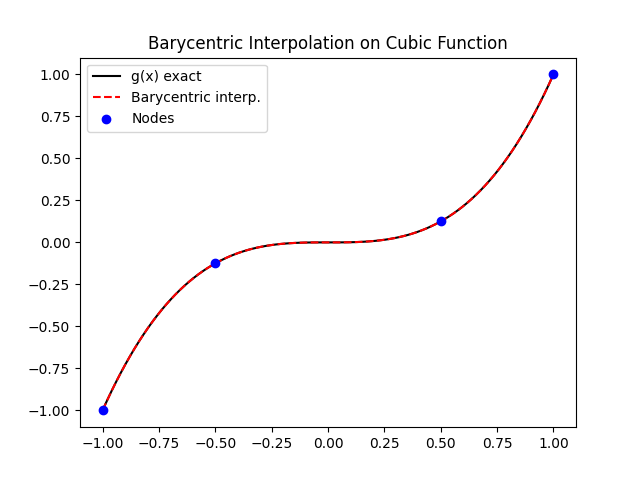
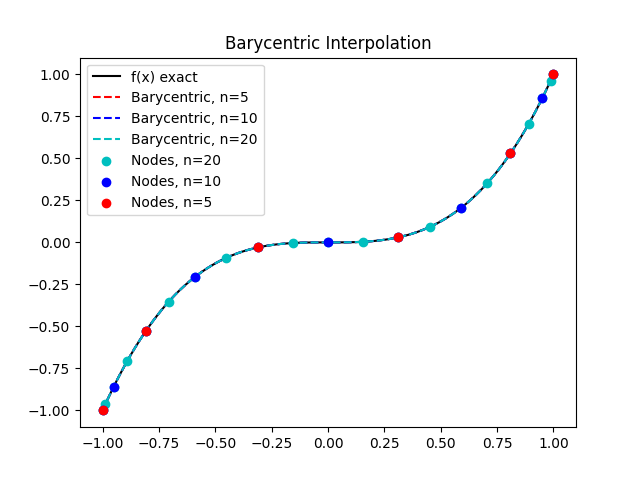
commit

diff --git a/project6/main.py b/project6/main.py
@@ -342,31 +342,67 @@ def cubic_b_spline_interpolation(x_nodes, f, fprime):
 # -----------------------------
 # Test 1: Barycentric Interpolation on a Cubic Polynomial
 # -----------------------------
-def g_cubic(x):
-    return np.sin(x)
+# def f(x):
+#     return 1 / (1 + (10 * x ** 2))
+#
+# def fprime(x):
+#     return - (20 * x) / ((1 + (10 * x ** 2)) ** 2)
+#
+# def fprime2(x):
+#     return - (20 * (1 - 30 * x ** 2)) / ((1 + (10 * x ** 2)) ** 3)
 
-def g_quadratic(x):
-    return np.cos(x)
+# def f(x):
+#     return np.sin(x)
+#
+# def fprime(x):
+#     return np.cos(x)
+#
+# def fprime2(x):
+#     return - np.sin(x)
 
-def g_linear(x):
-    return -1 * np.sin(x)
+def f(x):
+    return x ** 3
 
-a, b = -  np.pi / 2, np.pi / 2
-n = 3
-nodes = chebyshev_nodes(n, a, b, kind=2)
-weights = barycentric_weights(nodes)
-y_nodes = g_cubic(nodes)
+def fprime(x):
+    return 3 * x ** 2
 
+def fprime2(x):
+    return 6 * x
+
+a, b = - 1, 1
+# n0 = 5
+# n1 = 10
+# n2 = 20
+# nodes = chebyshev_nodes(n0, a, b, kind=2)
+# nodes1 = chebyshev_nodes(n1, a, b, kind=2)
+# nodes2 = chebyshev_nodes(n2, a, b, kind=2)
+# weights = barycentric_weights(nodes)
+# weights1 = barycentric_weights(nodes1)
+# weights2 = barycentric_weights(nodes2)
+# y_nodes = f(nodes)
+# y_nodes1 = f(nodes1)
+# y_nodes2 = f(nodes2)
+#
 x_dense = np.linspace(a, b, 100)
 # p_bary = barycentric_interpolation(x_dense, nodes, weights, y_nodes)
-# error_bary = np.max(np.abs(g_cubic(x_dense) - p_bary))
+# p_bary1 = barycentric_interpolation(x_dense, nodes1, weights1, y_nodes1)
+# p_bary2 = barycentric_interpolation(x_dense, nodes2, weights2, y_nodes2)
+# error_bary = round(np.max(np.abs(f(x_dense) - p_bary)),8)
+# error_bary1 = round(np.max(np.abs(f(x_dense) - p_bary1)),8)
+# error_bary2 = round(np.max(np.abs(f(x_dense) - p_bary2)),8)
 # print("Test 1: Barycentric Interpolation max error (cubic):", error_bary)
+# print("Test 2: Barycentric Interpolation max error (cubic):", error_bary1)
+# print("Test 3: Barycentric Interpolation max error (cubic):", error_bary2)
 #
 # plt.figure()
-# plt.plot(x_dense, g_cubic(x_dense), 'k-', label="g(x) exact")
-# plt.plot(x_dense, p_bary, 'r--', label="Barycentric interp.")
-# plt.scatter(nodes, y_nodes, c='blue', zorder=5, label="Nodes")
-# plt.title("Barycentric Interpolation on Cubic Function")
+# plt.plot(x_dense, f(x_dense), 'k-', label="f(x) exact")
+# plt.plot(x_dense, p_bary, 'r--', label="Barycentric, n=5")
+# plt.plot(x_dense, p_bary1, 'b--', label="Barycentric, n=10")
+# plt.plot(x_dense, p_bary2, 'c--', label="Barycentric, n=20")
+# plt.scatter(nodes2, y_nodes2, c='c', zorder=5, label="Nodes, n=20")
+# plt.scatter(nodes1, y_nodes1, c='b', zorder=5, label="Nodes, n=10")
+# plt.scatter(nodes, y_nodes, c='r', zorder=5, label="Nodes, n=5")
+# plt.title("Barycentric Interpolation")
 # plt.legend()
 # plt.savefig("barycentric_interpolation1.png")
 # plt.show()
@@ -374,121 +410,102 @@ x_dense = np.linspace(a, b, 100)
 # -----------------------------
 # Test 2: Piecewise Polynomial Interpolation on a Cubic Function
 # -----------------------------
-num_sub = 10
-p_piecewise = piecewise_polynomial(g_cubic, a, b, num_sub, x_dense, degree=3, local_method=2)
-error_piecewise = np.max(np.abs(g_cubic(x_dense) - p_piecewise))
-print("Test 2: Piecewise Polynomial Interpolation max error (cubic):", error_piecewise)
-
-plt.figure()
-plt.plot(x_dense, g_cubic(x_dense), 'k-', label="g(x) exact")
-plt.plot(x_dense, p_piecewise, 'g--', label="Piecewise poly interp.")
-plt.title("Piecewise Polynomial Interpolation on Cubic Function")
-plt.legend()
-plt.savefig("piecewise1_pi_10.png")
-plt.show()
+# num_sub = 20
+# p_piecewise = piecewise_polynomial(f, a, b, num_sub, x_dense, degree=3, local_method=2)
+# error_piecewise = round(np.max(np.abs(f(x_dense) - p_piecewise)),8)
+# print("Test 2: Piecewise Polynomial Interpolation max error (cubic):", error_piecewise)
 #
-# # -----------------------------
-# # Test 3: Piecewise Hermite Polynomial Interpolation on a Cubic Function
-# # -----------------------------
-p_piecewise2 = piecewise_polynomial(g_cubic, a, b, num_sub, x_dense, degree=3, local_method=2,
-                                    hermite=True, fprime=g_quadratic)
-error_piecewise2 = np.max(np.abs(g_cubic(x_dense) - p_piecewise2))
-print("Test 3: Piecewise Hermite Polynomial Interpolation max error (cubic):", error_piecewise2)
-
-plt.figure()
-plt.plot(x_dense, g_cubic(x_dense), 'k-', label="g(x) exact")
-plt.plot(x_dense, p_piecewise2, 'g--', label="Piecewise poly interp.")
-plt.title("Piecewise Hermite Polynomial Interpolation on Cubic Function")
-plt.legend()
-plt.savefig("piecewise1_hermite_pi_10.png")
-plt.show()
+# plt.figure()
+# plt.plot(x_dense, f(x_dense), 'k-', label="f(x) exact")
+# plt.plot(x_dense, p_piecewise, 'g--', label="Piecewise poly interp.")
+# plt.title("Piecewise Polynomial Interpolation")
+# plt.legend()
+# plt.savefig("piecewise_10_20.png")
+# plt.show()
+#
+# # # -----------------------------
+# # # Test 3: Piecewise Hermite Polynomial Interpolation on a Cubic Function
+# # # -----------------------------
+# p_piecewise2 = piecewise_polynomial(f, a, b, num_sub, x_dense, degree=3, local_method=2,
+#                                     hermite=True, fprime=fprime)
+# error_piecewise2 = round(np.max(np.abs(f(x_dense) - p_piecewise2)),8)
+# print("Test 3: Piecewise Hermite Polynomial Interpolation max error (cubic):", error_piecewise2)
+#
+# plt.figure()
+# plt.plot(x_dense, f(x_dense), 'k-', label="f(x) exact")
+# plt.plot(x_dense, p_piecewise2, 'g--', label="Piecewise poly interp.")
+# plt.title("Piecewise Hermite Polynomial Interpolation")
+# plt.legend()
+# plt.savefig("piecewise_hermite_10_20.png")
+# plt.show()
 #
 #
 # # -----------------------------
 # # Test 4: Cubic Spline Interpolation (Spline Code 1) on a Cubic Function
 # # -----------------------------
-# x_nodes = np.linspace(a, b, 4)
-# y_nodes = g_cubic(x_nodes)
-# _, coeffs = newton_divided_diff(x_nodes, y_nodes)
-# matrix, d = cubic_spline_coefficients(x_nodes, coeffs, g_linear)
-# s = np.linalg.solve(matrix, d)
-# spline1 = cubic_spline_polynomial(x_nodes, y_nodes, x_dense, s)
-# error_spline1 = np.max(np.abs(g_cubic(x_dense) - spline1))
-# print("Test 4: Cubic Spline max error:", error_spline1)
 #
-# plt.figure()
-# plt.plot(x_dense, g_cubic(x_dense), 'k-', label="g(x) exact")
-# plt.plot(x_dense, spline1, 'm--', label="Cubic Spline Code 1")
-# plt.title("Cubic Spline on Cubic Function")
-# plt.legend()
-# plt.savefig("cubic_spline_10.png")
-# plt.show()
+splines = []
+for n in (10, 50, 80):
+    x_nodes = np.linspace(a, b, n)
+    y_nodes = f(x_nodes)
+    _, coeffs = newton_divided_diff(x_nodes, y_nodes)
+    matrix, d = cubic_spline_coefficients(x_nodes, coeffs, fprime2)
+    s = np.linalg.solve(matrix, d)
+    spline1 = cubic_spline_polynomial(x_nodes, y_nodes, x_dense, s)
+    splines.append(spline1)
+    error_spline1 = round(np.max(np.abs(f(x_dense) - spline1)),8)
+    print(f"Test 4: Cubic Spline max error for n={n}:", error_spline1)
+
+plt.figure()
+plt.plot(x_dense, f(x_dense), 'k-', label="f(x) exact")
+plt.plot(x_dense, splines[0], 'c--', label="Cubic Spline n=10")
+plt.plot(x_dense, splines[1], 'b--', label="Cubic Spline n=50")
+plt.plot(x_dense, splines[2], 'r--', label="Cubic Spline n=80")
+plt.title("Cubic Spline Interpolation")
+plt.legend()
+plt.savefig("cubic_spline_1.png")
+plt.show()
 
 # # -----------------------------
 # # Test 5: Cubic Spline Interpolation (Spline Code 2) on a Cubic Function
 # # -----------------------------
 
-# num_nodes = 5
-# x_nodes = np.linspace(a, b, num_nodes)
-# y_nodes = g_cubic(x_nodes)
+splines1 = []
+for n in (10, 50, 80):
+    num_nodes = n
+    x_nodes = np.linspace(a, b, num_nodes)
+    y_nodes = f(x_nodes)
+
+    s_vals, alpha = cubic_b_spline_interpolation(x_nodes, f, fprime)
+    x_dense = np.linspace(a, b, 100)
+    s_dense = np.zeros_like(x_dense)
+    h = x_nodes[1] - x_nodes[0]
+    x0 = x_nodes[0]
+    N = len(alpha)  # = n+3
+    for idx, x in enumerate(x_dense):
+        s_val = 0.0
+        for j in range(N):
+            i_index = j - 1
+            s_val += alpha[j] * cubic_Bspline_coefficients(i_index, x, x0, h)
+        s_dense[idx] = s_val
+    splines1.append(s_dense)
+
+    error_spline2 = np.max(np.abs(f(x_dense) - s_dense))
+    print(f"Test 5: Cubic B-Spline max error for n={n}:", error_spline2)
 #
-# s_vals, alpha = cubic_b_spline_interpolation(x_nodes, g_cubic, g_quadratic)
-# x_dense = np.linspace(a, b, 100)
-# s_dense = np.zeros_like(x_dense)
-# h = x_nodes[1] - x_nodes[0]
-# x0 = x_nodes[0]
-# N = len(alpha)  # = n+3
-# for idx, x in enumerate(x_dense):
-#     s_val = 0.0
-#     for j in range(N):
-#         i_index = j - 1
-#         s_val += alpha[j] * cubic_Bspline_coefficients(i_index, x, x0, h)
-#     s_dense[idx] = s_val
 #
-# error_spline2 = np.max(np.abs(g_cubic(x_dense) - s_dense))
-# print("Test 5: Cubic B-Spline max error:", error_spline2)
-#
-#
-# plt.plot(x_dense, g_cubic(x_dense), 'k-', label="f(x) = x^3 (exact)")
-# plt.plot(x_dense, s_dense, 'r--', label="Cubic B-spline Interpolant")
-# plt.plot(x_nodes, y_nodes, 'bo', label="Nodes")
-# plt.title("Cubic B-spline Interpolation via B-spline Basis")
-# plt.xlabel("x")
-# plt.ylabel("y")
-# plt.legend()
-# plt.savefig("cubic_Bspline_1.png")
-# plt.show()
+plt.plot(x_dense, f(x_dense), 'k-', label="f(x) (exact)")
+plt.plot(x_dense, splines1[0], 'c--', label="Cubic B-spline n=10")
+plt.plot(x_dense, splines1[1], 'b--', label="Cubic B-spline n=50")
+plt.plot(x_dense, splines1[2], 'r--', label="Cubic B-spline n=80")
+plt.title("Cubic B-spline Interpolation via B-spline Basis")
+plt.xlabel("x")
+plt.ylabel("y")
+plt.legend()
+plt.savefig("cubic_Bspline_1.png")
+plt.show()
 
 
-# # -----------------------------
-# # Test 6: Comparison on a Non-Polynomial Function (e.g., sin(x))
-# # -----------------------------
-# def f_sin(x):
-#     return np.sin(x)
-
-# a_sin, b_sin = 0, np.pi
-# x_dense_sin = np.linspace(a_sin, b_sin, 200)
-# n_sin = 10  # number of nodes for barycentric
-# nodes_sin = chebyshev_nodes(n_sin, a_sin, b_sin, kind=1)
-# weights_sin = barycentric_weights(nodes_sin)
-# y_nodes_sin = f_sin(nodes_sin)
-# p_bary_sin = barycentric_interpolation(x_dense_sin, nodes_sin, weights_sin, y_nodes_sin)
-# p_piecewise_sin = piecewise_polynomial(f_sin, a_sin, b_sin, num_sub=4, x=x_dense_sin, degree=3, local_method=1)
-#
-# plt.figure()
-# plt.plot(x_dense_sin, f_sin(x_dense_sin), 'k-', label="sin(x) exact")
-# plt.plot(x_dense_sin, p_bary_sin, 'r--', label="Barycentric")
-# plt.plot(x_dense_sin, p_piecewise_sin, 'g--', label="Piecewise Poly")
-# plt.title("Comparison on sin(x)")
-# plt.legend()
-# plt.show()
-#
-# error_bary_sin = np.max(np.abs(f_sin(x_dense_sin) - p_bary_sin))
-# error_piecewise_sin = np.max(np.abs(f_sin(x_dense_sin) - p_piecewise_sin))
-# print("Test 5: sin(x) Barycentric max error:", error_bary_sin)
-# print("Test 5: sin(x) Piecewise Poly max error:", error_piecewise_sin)
-#
-#
 # # -----------------------------
 # # Test 6: Randomized Testing with Random Cubic Functions
 # # -----------------------------
